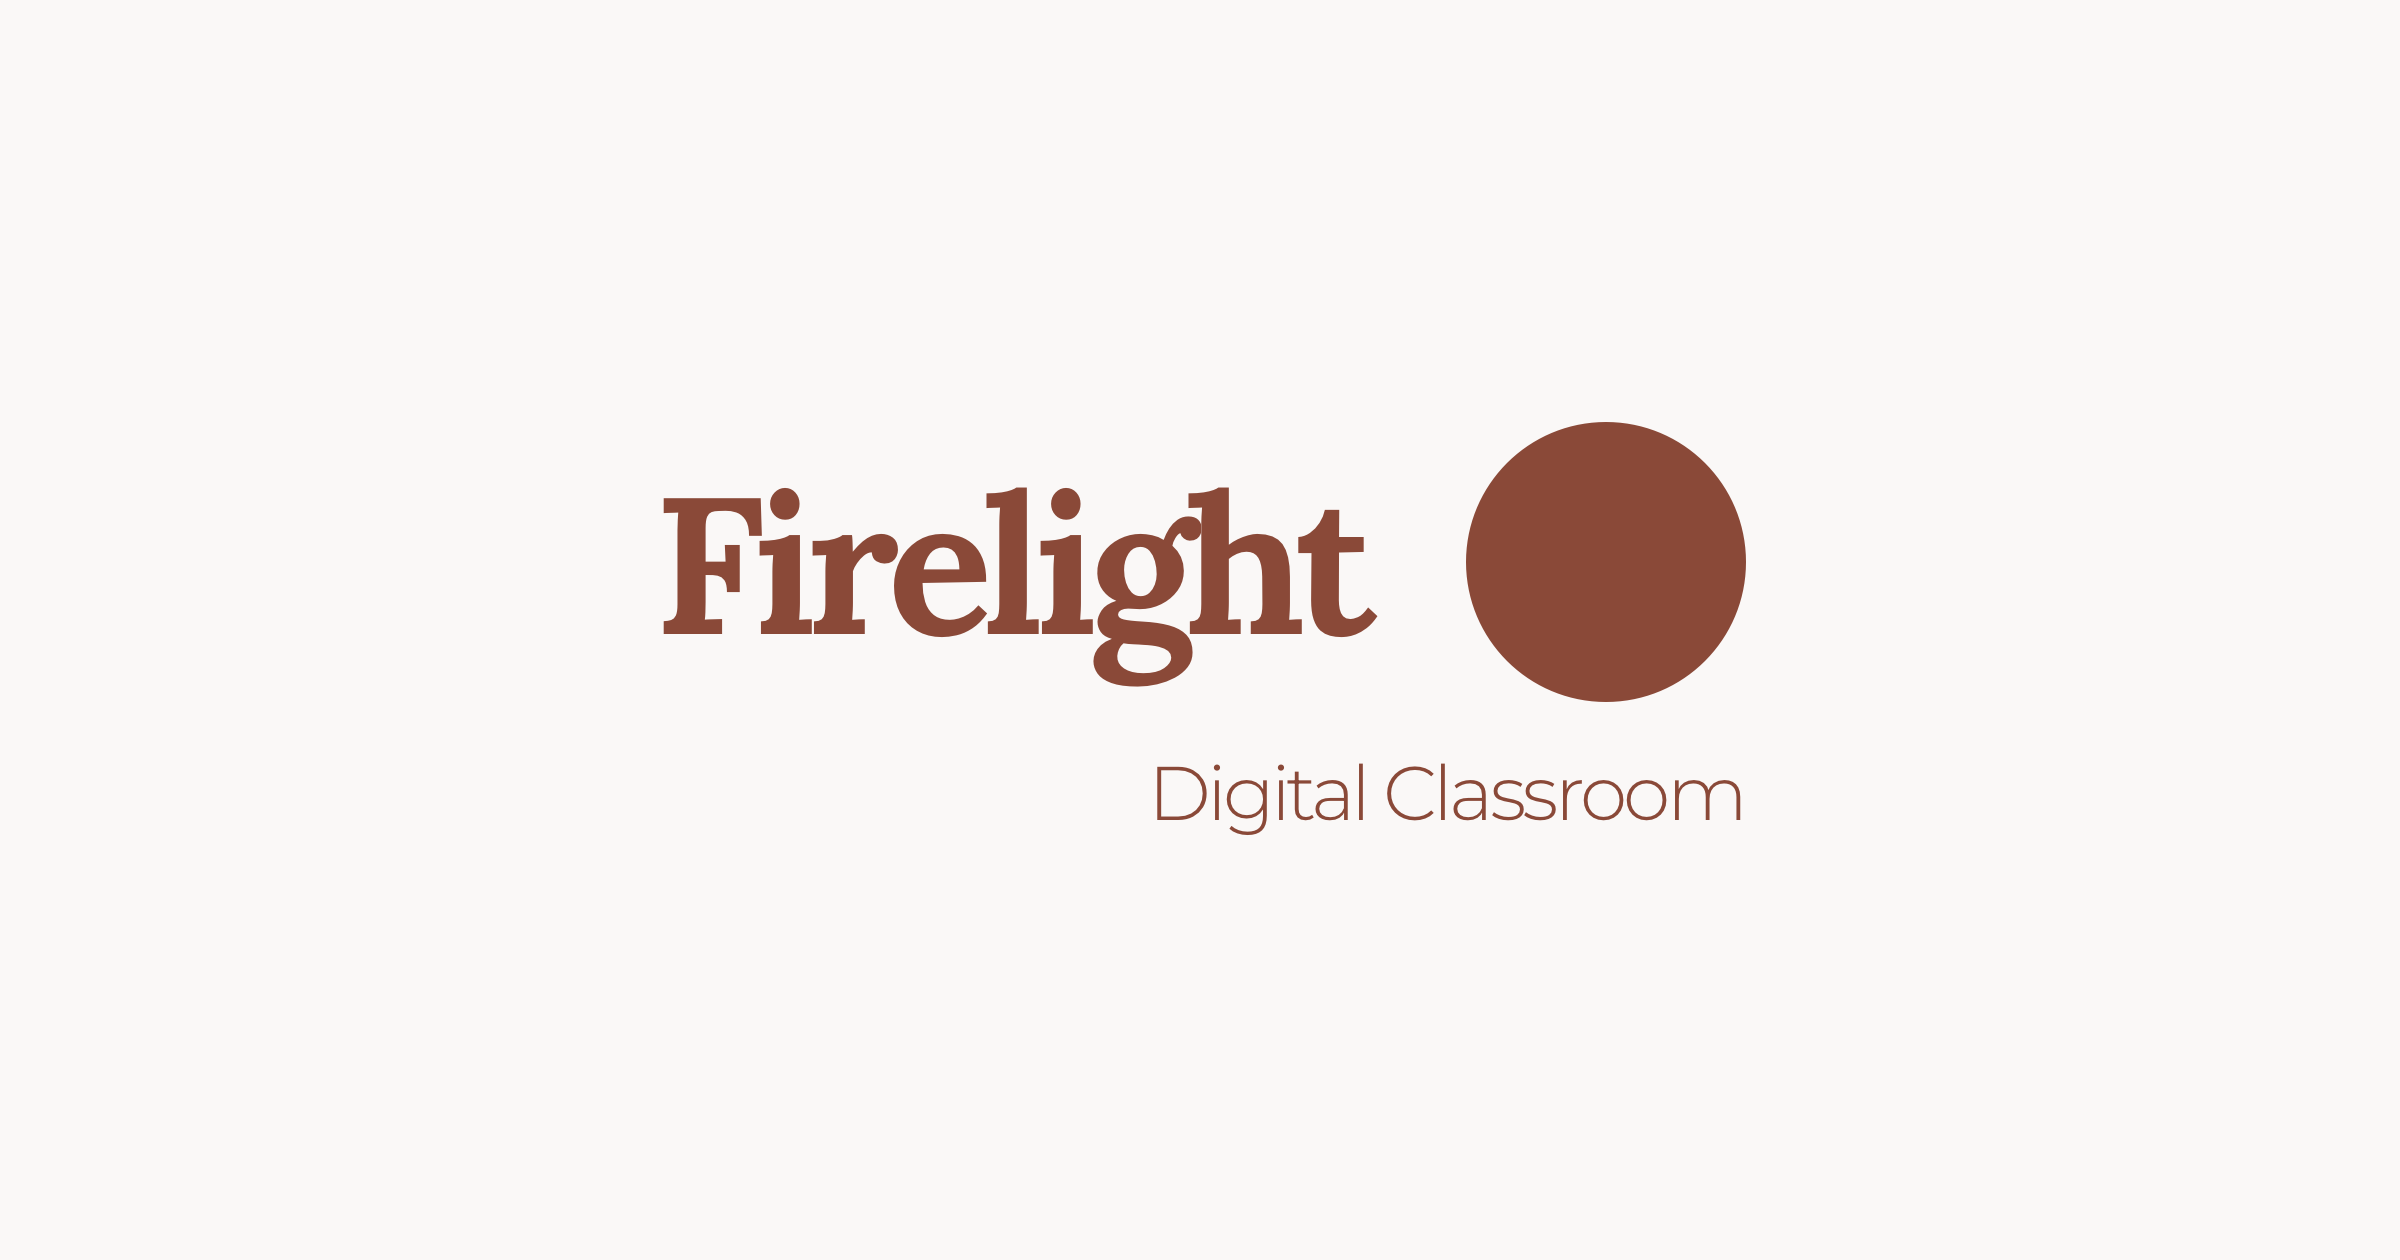
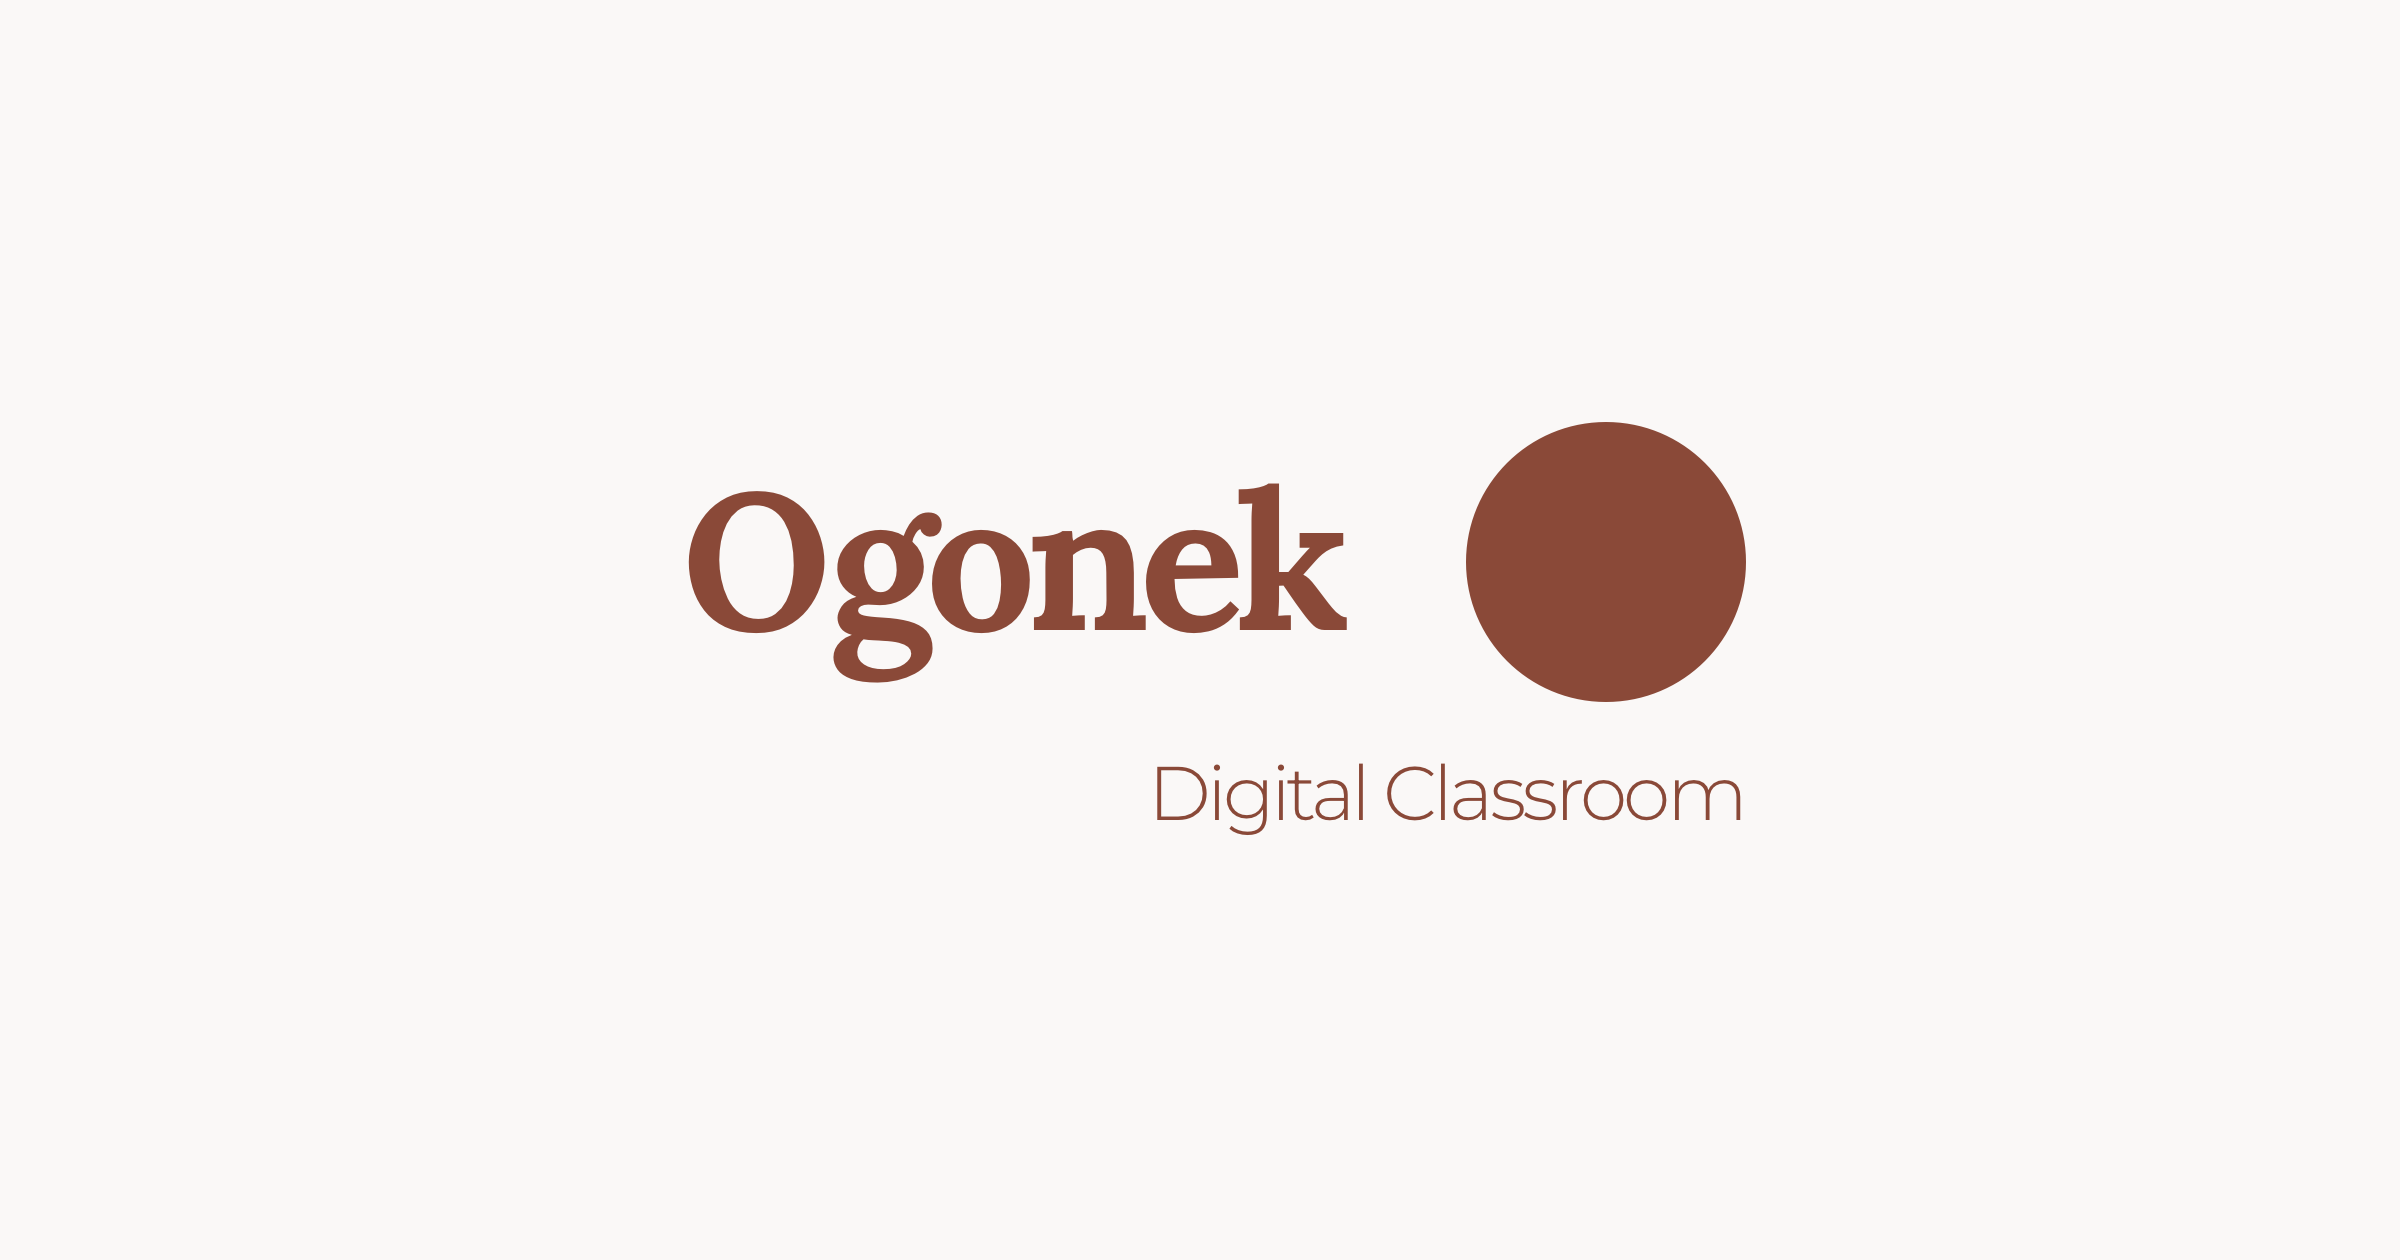
rebranding to ogonek

Changed region(s): [[0.2812, 0.3714, 0.5625, 0.5571]]

diff --git a/svelte/src/lib/components/MetaData.svelte b/svelte/src/lib/components/MetaData.svelte
@@ -10,13 +10,13 @@
   }
 
   let {
-    description = "Firelight. The digital classroom for private teachers.",
-    title = "Firelight",
+    description = "Ogonek. The digital classroom for private teachers.",
+    title = "Ogonek",
     keywords = "education, teach, English, classroom management, teaching, learning",
     robots = "index, follow",
-    ogTitle = "Firelight",
-    ogUrl = "https://firelight.noxlovette.com",
-    ogImage = "https://firelight.noxlovette.com/images/og.png",
+    ogTitle = "Ogonek",
+    ogUrl = "https://ogonek.noxlovette.com",
+    ogImage = "https://ogonek.noxlovette.com/images/og.png",
   }: Props = $props();
   let ogType = "website";
 </script>
@@ -39,12 +39,12 @@
     {
       "@context": "http://schema.org",
       "@type": "WebApplication",
-      "name": "Firelight",
-      "url": "https://firelight.noxlovette.com",
-      "description": "Firelight. The digital classroom for private teachers.",
+      "name": "Ogonek",
+      "url": "https://Ogonek.noxlovette.com",
+      "description": "Ogonek. The digital classroom for private teachers.",
       "applicationCategory": "EducationalApplication",
       "operatingSystem": "All",
-      // "screenshot": "https://firelight.noxlovette.com/static/images/screenshot.jpg",
+      // "screenshot": "https://Ogonek.noxlovette.com/static/images/screenshot.jpg",
       "featureList": "Flashcards, Scheduling, Lesson Notes, Student Progress Tracking",
       "softwareVersion": "1.1.3",
       "author": {

diff --git a/svelte/src/routes/[role]/tasks/t/[id]/edit/+page.server.ts b/svelte/src/routes/[role]/tasks/t/[id]/edit/+page.server.ts
@@ -54,7 +54,7 @@ export const actions = {
       return error(code || 400, message);
     }
 
-    const message = `You have a new task: "${title}"\\. You can view it on [Firelight](https://firelight\\.noxlovette\\.com/s/tasks)\\.`;
+    const message = `You have a new task: "${title}"\\. You can view it on [Ogonek](https://Ogonek\\.noxlovette\\.com/s/tasks)\\.`;
 
     if (telegramId && initialAssignee !== assignee) {
       const telegramResponse = await notifyTelegram(message, telegramId);

diff --git a/svelte/src/lib/components/UI/navigation/Header.svelte b/svelte/src/lib/components/UI/navigation/Header.svelte
@@ -14,7 +14,7 @@
     class="mx-auto flex w-full max-w-7xl items-center justify-between px-4 py-3"
   >
     <div class="flex w-full md:w-1/6">
-      <a {href} class="font-serif text-2xl font-bold">Firelight</a>
+      <a {href} class="font-serif text-2xl font-bold">Ogonek</a>
     </div>
 
     {#if $user.name}

diff --git a/svelte/src/routes/+page.svelte b/svelte/src/routes/+page.svelte
@@ -10,7 +10,7 @@
   <h1
     class="text-[3rem] leading-[3rem] font-bold md:leading-[4rem] xl:text-[4rem]"
   >
-    Welcome to Firelight
+    Welcome to Ogonek
   </h1>
   <h2 class="text-xl">
     See your homework, revisit previous lessons. One place for your English

diff --git a/svelte/src/routes/paperwork/privacy/+page.svelte b/svelte/src/routes/paperwork/privacy/+page.svelte
@@ -3,7 +3,7 @@
 </script>
 
 <svelte:head>
-  <title>Privacy | Firelight</title>
+  <title>Privacy | Ogonek</title>
 </svelte:head>
 
 <div class="markdown">

diff --git a/svelte/src/routes/paperwork/terms/+page.svelte b/svelte/src/routes/paperwork/terms/+page.svelte
@@ -3,7 +3,7 @@
 </script>
 
 <svelte:head>
-  <title>Terms | Firelight</title>
+  <title>Terms | Ogonek</title>
 </svelte:head>
 
 <div class="markdown">

diff --git a/svelte/src/routes/[role]/dashboard/+page.svelte b/svelte/src/routes/[role]/dashboard/+page.svelte
@@ -46,5 +46,5 @@
 </div>
 
 <svelte:head>
-  <title>Dashboard | Firelight</title>
+  <title>Dashboard | Ogonek</title>
 </svelte:head>

diff --git a/svelte/src/routes/download/[filename]/+page.svelte b/svelte/src/routes/download/[filename]/+page.svelte
@@ -88,5 +88,5 @@
 </div>
 
 <svelte:head>
-  <title>Download | Firelight</title>
+  <title>Download | Ogonek</title>
 </svelte:head>

diff --git a/svelte/src/routes/+layout.svelte b/svelte/src/routes/+layout.svelte
@@ -34,5 +34,5 @@
 </main>
 
 <svelte:head>
-  <title>Firelight</title>
+  <title>Ogonek</title>
 </svelte:head>
